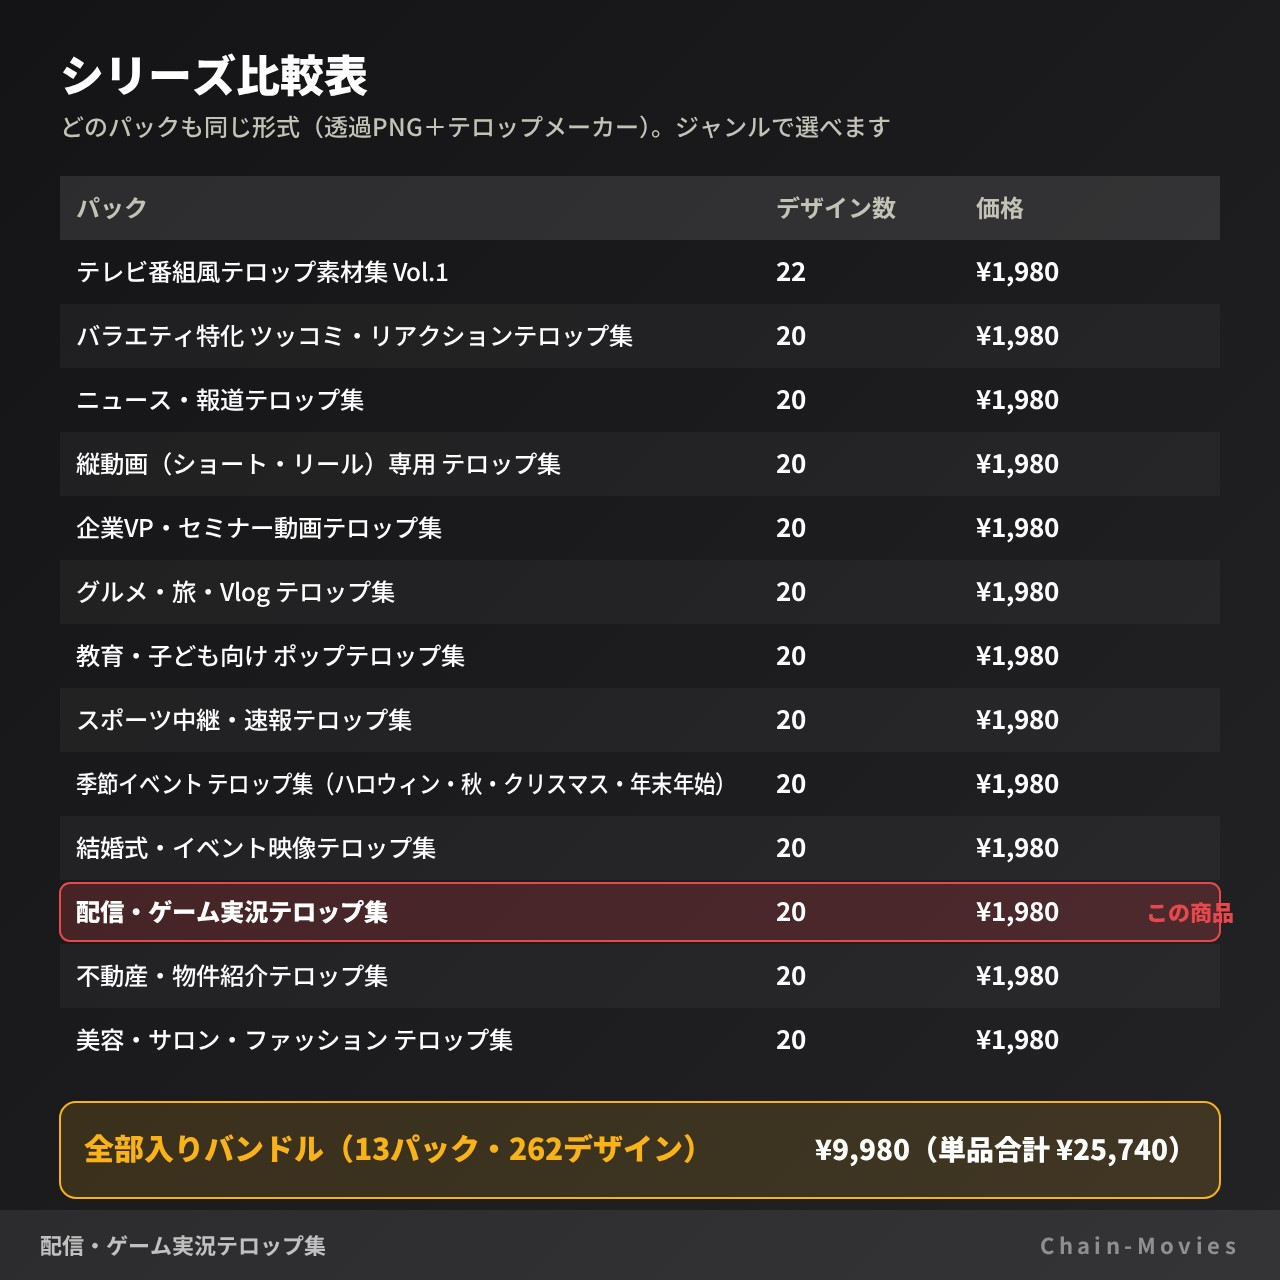
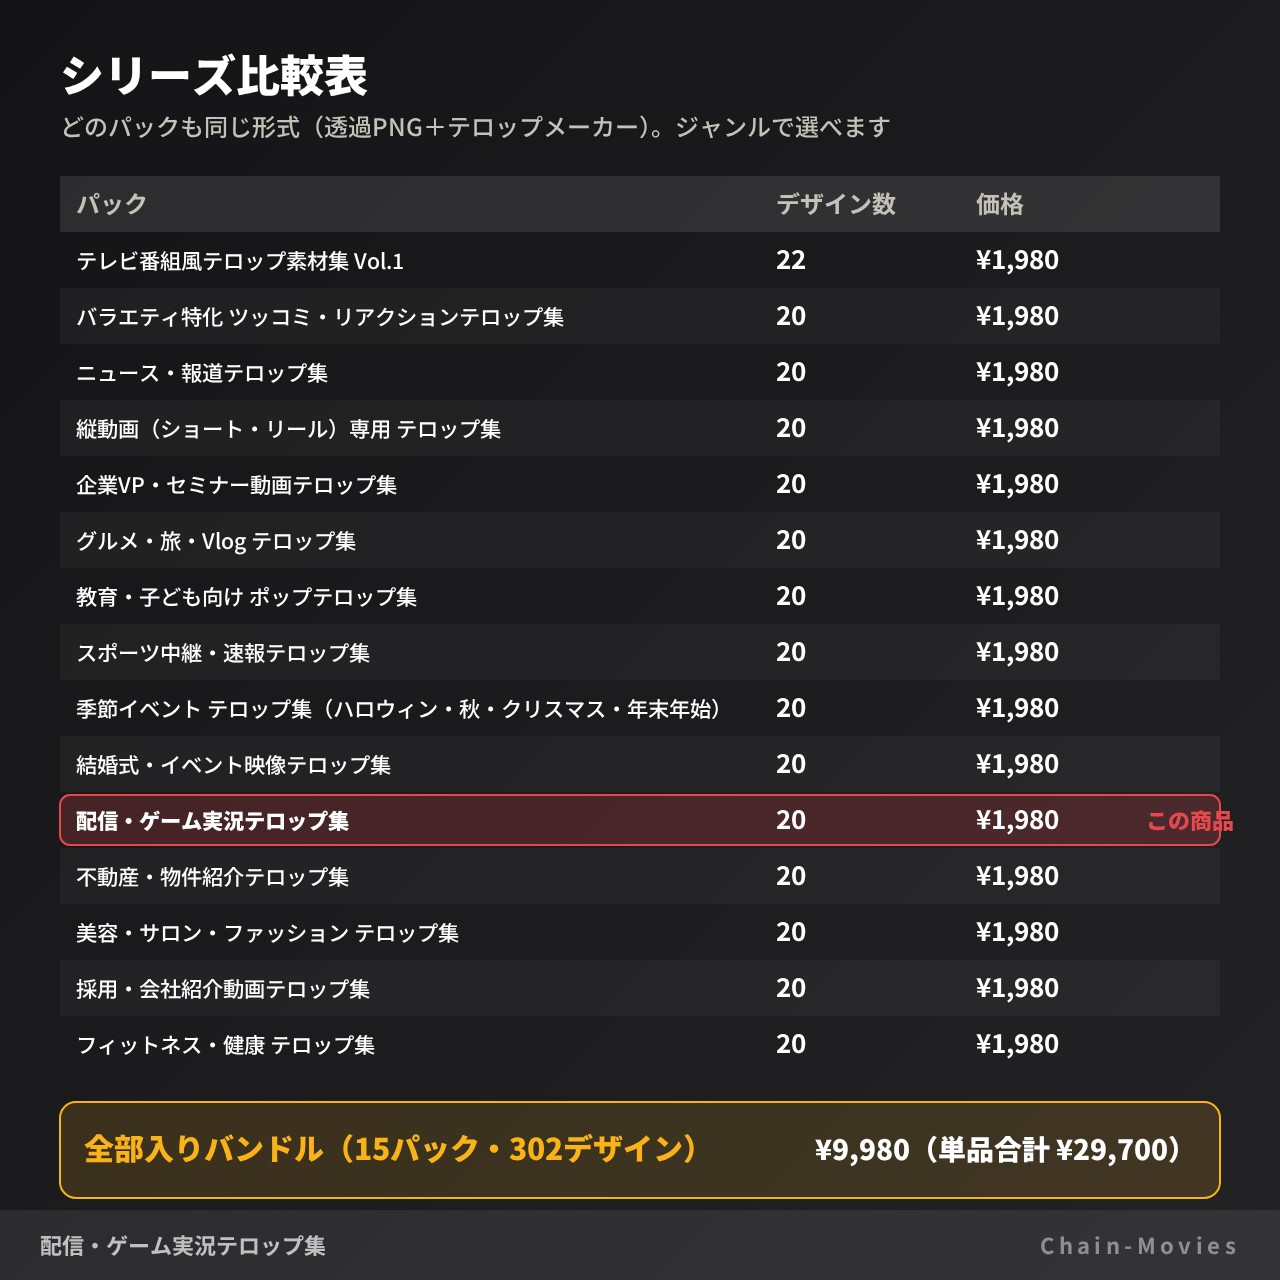
アプリ各画面から販売ページへの導線・links.json の Release 更新・商品画像を15パックで再生成
Claude-Session: https://claude.ai/code/session_01GTMsHfACmGdpcAmSdCWmVD

diff --git a/apps/anniversary-sheet/index.html b/apps/anniversary-sheet/index.html
@@ -75,6 +75,7 @@ textarea{min-height:64px;resize:vertical}
     <h1>周年記念動画 ヒアリングシート＆構成案ジェネレーター</h1>
     <span class="free">無料</span>
     <span class="sp"></span>
+    <a class="btn" href="../../shop/" style="width:auto;margin:0;text-decoration:none">テロップ素材集 →</a>
     <button class="btn" id="btnTxt">構成案をテキストでコピー</button>
     <button class="btn" id="btnJsonSave">JSON 保存</button>
     <button class="btn" id="btnJsonLoad">JSON 読み込み</button>
